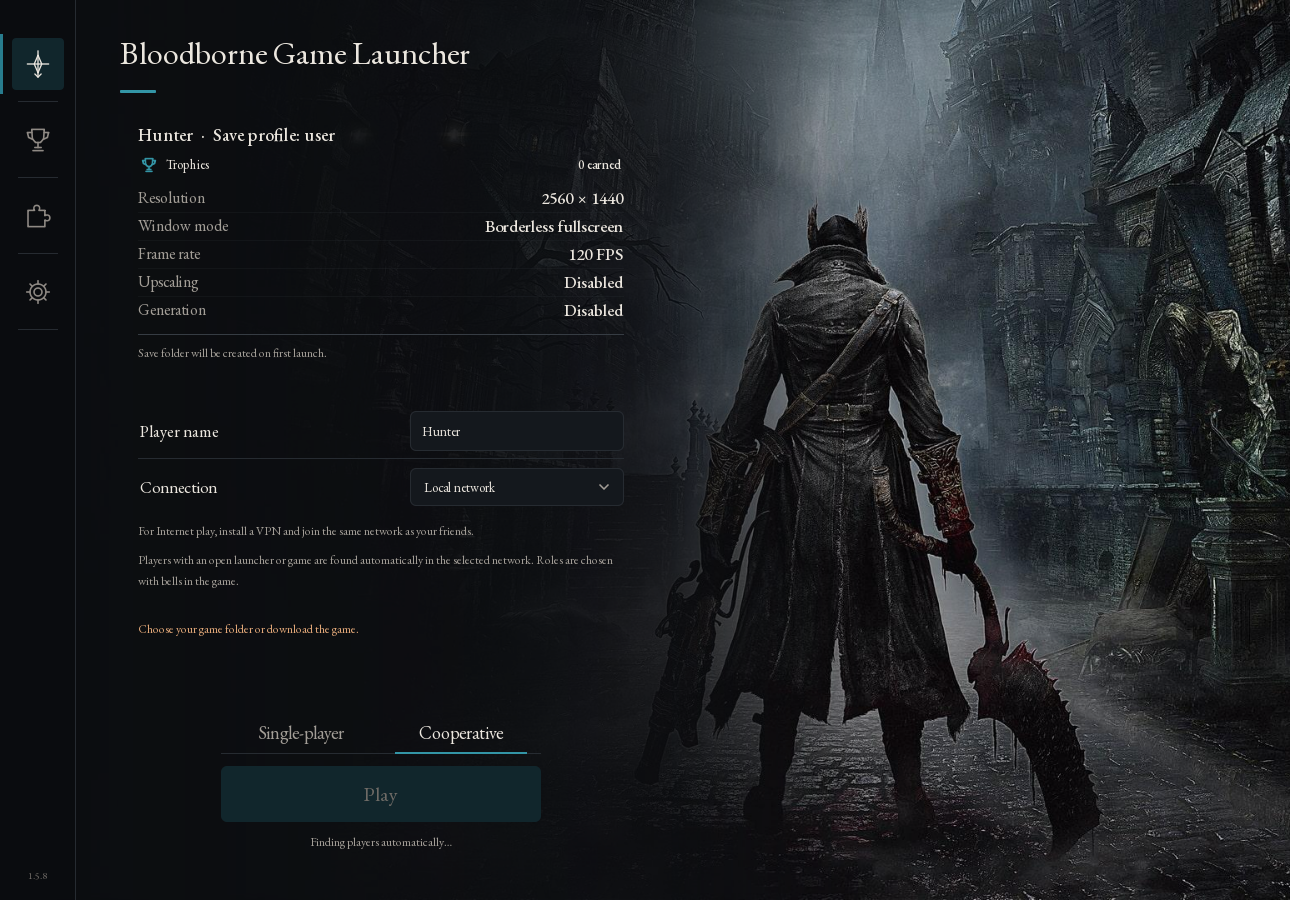
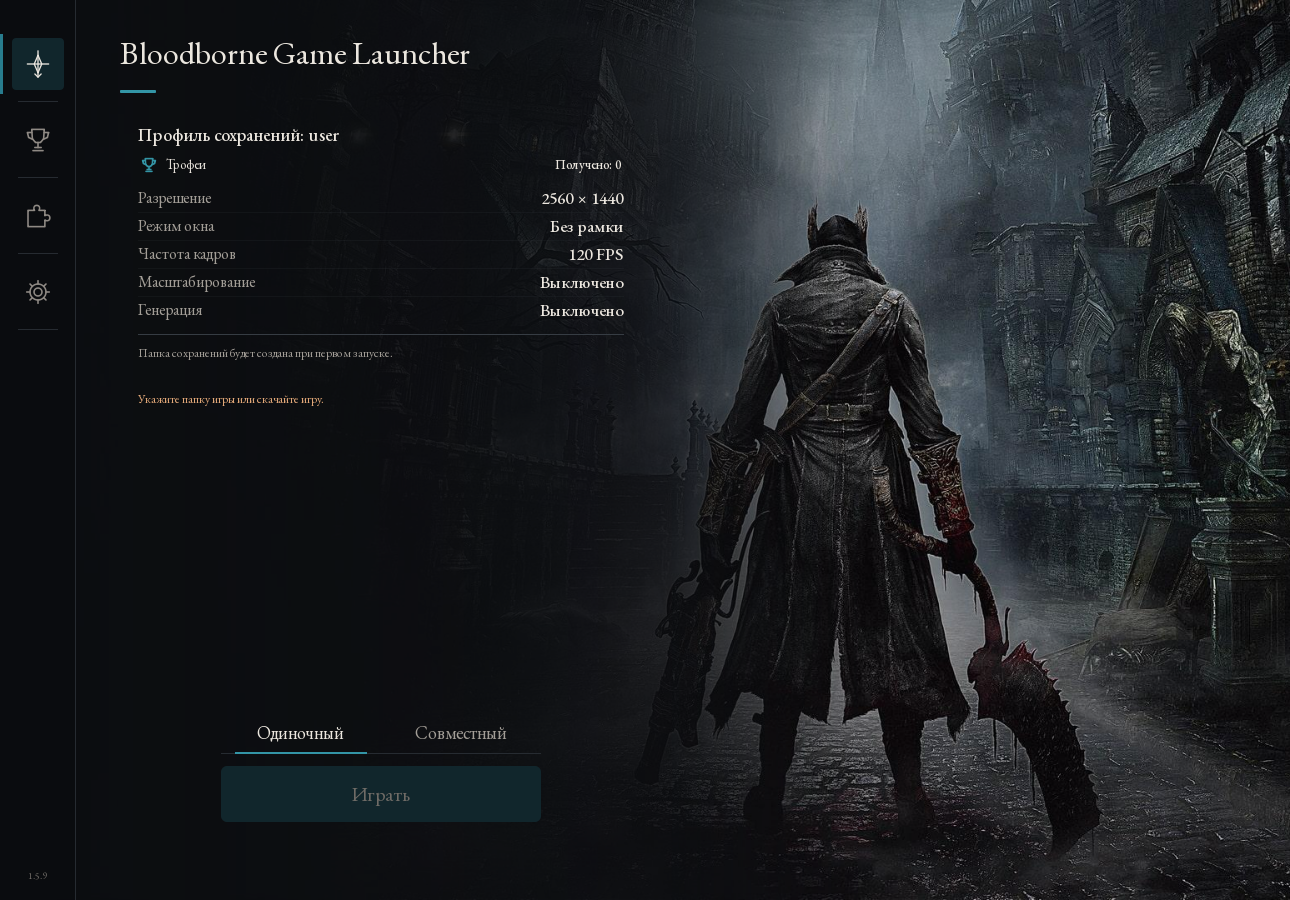
release: prepare BBGL 1.5.9

diff --git a/launcher/bbport_launcher_win.py b/launcher/bbport_launcher_win.py
@@ -44,8 +44,8 @@ PATCH_VERSION = '01.09'
 MAX_LOG_LINES = 6000
 NO_WINDOW = getattr(subprocess, 'CREATE_NO_WINDOW', 0)
 # This fork's build; the release tag includes this version.
-VERSION = '1.5.8'
-CURRENT_RELEASE_TAG = 'v1.5.8'
+VERSION = '1.5.9'
+CURRENT_RELEASE_TAG = 'v1.5.9'
 HERO_ART = PORT_DIR / 'launcher' / 'art' / 'hero.png'
 STRIP_ART = PORT_DIR / 'launcher' / 'art' / 'strip.png'
 RELEASES_API = 'https://api.github.com/repos/mark3317/bbgl/releases/latest'

diff --git a/BUILDING.md b/BUILDING.md
@@ -12,11 +12,11 @@ bash packaging/windows/build-coop-package.sh
 
 The command builds BBSC-GL from `mods-src/BBSC`, builds the port, freezes the launcher and assembles the P2P runtime. FSR-Vulkan is pinned from the [BBGL dependency fork](https://github.com/mark3317/UniversalScalers-Vulkan), which includes the frame-resource lifetime fix used by this release. The current co-op path needs no separate game server, shadNet account or invitation. Historical server build scripts are not part of this release path.
 
-Staging is recreated at `out/stage/Bloodborne Game Launcher`. The release files are `dist/bbgl-1.5.8-windows-x64.zip` and its `.zip.sha256`. Keep the staging path separate from installed launchers and keep player settings, saves, accounts, logs and game files outside the package.
+Staging is recreated at `out/stage/Bloodborne Game Launcher`. The release files are `dist/bbgl-1.5.9-windows-x64.zip` and its `.zip.sha256`. Keep the staging path separate from installed launchers and keep player settings, saves, accounts, logs and game files outside the package.
 
 Button prompts and the optional Diamond Sword use binary deltas from `bundled-mods`. Packaging uses prepared button prompts from `out/vendor/ready-prompts`. If the cache is empty, set `BB_PROMPT_GAME_DIR` to your own original 1.09 game folder to prepare the prompts. Diamond Sword and all cheats are disabled by default. Detailed logging, research, profiling and Vulkan validation are opt-in. See the [logging policy](docs/LOGGING.md).
 
-`SKIP_BUILD=1` skips only the port for verified launcher-only iterations. BBSC is still rebuilt. A release candidate uses the full command without `BB_FAST_DEPLOY=1`; the fast option is for ordinary local deployment and skips release verification.
+`SKIP_BUILD=1` skips only the port for verified builds that reuse unchanged port binaries. BBSC is still rebuilt. A release candidate uses the full command without `BB_FAST_DEPLOY=1`; the fast option is for ordinary local deployment and skips release verification.
 
 `package.sh` verifies the final staging payload once. The wrapper creates the versioned archive and SHA-256. Check ZIP structure, CRC, and file names and contents against verified staging. Extract the matching BBSC-GL ZIP from this validated launcher ZIP using its bundled DLL, Party, metadata and licences. Smoke-test the frozen launcher from the extracted ZIP in separate English and Russian temporary profiles. Follow [targeted testing rules](docs/TESTING.md); no full test sweep is required just for packaging. Record build, deployment and gameplay validation separately, and disclose untested gameplay changes.
 
@@ -24,4 +24,4 @@ Commit the intended BBSC changes before updating the parent gitlink. `coop/SOURC
 
 When building a Git for Windows checkout from MSYS2, use the same line-ending configuration in both environments. If Git for Windows reports a clean checkout but MSYS2 reports only CRLF differences in BBSC dependencies, run the build with `GIT_CONFIG_COUNT=1 GIT_CONFIG_KEY_0=core.autocrlf GIT_CONFIG_VALUE_0=true` in the MSYS2 command environment. Verify that both Git clients report a clean BBSC checkout and that `source_dirty` is false in the final ZIP.
 
-`develop` holds ongoing work. `main` holds release source. BBGL 1.5.8 uses update tag `v1.5.8` and bundles BBSC-GL 1.5.8.
+`develop` holds ongoing work. `main` holds release source. BBGL 1.5.9 uses update tag `v1.5.9` and bundles BBSC-GL 1.5.9.

diff --git a/README.md b/README.md
@@ -12,7 +12,7 @@ BBGL brings installation, configuration and launching into one interface. Guided
 
 **The entire main story is playable in co-op, from the beginning through the finale, with a working transition to NG+. A complete playthrough and the move into the next cycle have been tested in-game and confirmed by the user. Chalice dungeons work in co-op, including randomly generated Root Chalices.**
 
-**BBGL 1.5.8** includes BBSC-GL 1.5.8. After a full party wipe, BBSC-GL resets temporary encounter flags for story, DLC and Chalice Dungeon bosses. Chalice resets use the active ritual and arena. Late snapshots preserve the new attempt’s local flags. Targeted tests passed. In-game verification of retries is pending. [Release notes](docs/release-1.5.8.md).
+**BBGL 1.5.9** includes BBSC-GL 1.5.9. The mod waits for known party members during boss deaths, rechecks readiness when presence or the roster changes, and rejects death messages from earlier visits. Targeted tests passed. In-game verification is pending. [Release notes](docs/release-1.5.9.md).
 
 ## Party and peer-to-peer networking
 
@@ -56,7 +56,7 @@ The interface supports English and Russian. The screenshots show the cooperative
 
 ## Start playing
 
-1. Download `bbgl-1.5.8-windows-x64.zip` from Releases and extract it. Open the **Bloodborne Game Launcher** folder.
+1. Download `bbgl-1.5.9-windows-x64.zip` from Releases and extract it. Open the **Bloodborne Game Launcher** folder.
 2. Run **Bloodborne.exe**. Use the built-in download button in setup or select an existing Bloodborne **CUSA03173, update 1.09** folder. Game files are not included in the launcher archive.
 3. For co-op, connect every PC to the same VPN or LAN. Choose **Local network**, **Tailscale** or **Radmin**; installed VPNs appear in the list and missing ones have installation buttons. Check connectivity, then start the game. Players can join later. No server or invite code is required.
 4. Use the in-game co-op bells to gather your party. Keep everyone on the same BBGL release.

diff --git a/docs/release-1.5.9.md b/docs/release-1.5.9.md
@@ -1,0 +1,17 @@
+# BBGL 1.5.9
+
+## Русский
+
+- Включён BBSC-GL 1.5.9 с исправлениями согласования общей гибели на боссе. Погибшие ждут статусы известных участников, а смена присутствия или состава запускает повторную проверку.
+- Сообщения о смерти из предыдущего визита больше не подтверждают готовность к загрузке в текущем визите.
+
+Распакуйте Windows ZIP и запустите `Bloodborne.exe`. Для согласованного возрождения обновите всех участников до 1.5.9. Четыре сценария прошли на стенде. Проверка в игре остаётся открытой.
+
+## English
+
+- Includes BBSC-GL 1.5.9 with fixes for coordinated boss-death recovery. Dead players wait for known teammates, and changes in presence or party size trigger a readiness check.
+- A death message from an earlier visit cannot mark a player ready in the current visit.
+
+Extract the Windows ZIP and run `Bloodborne.exe`. Update everyone to 1.5.9 for coordinated recovery. All four regression cases passed. In-game verification is pending.
+
+[BBSC-GL 1.5.9](https://github.com/mark3317/bbsc-gl/releases/tag/v1.5.9)

diff --git a/CHANGELOG.md b/CHANGELOG.md
@@ -1,5 +1,10 @@
 # BBGL changelog
 
+## 1.5.9
+
+Включает BBSC-GL 1.5.9 с исправлениями ожидания группы, учёта загрузки и смены состава после смерти на боссе. Стендовые проверки прошли. Игровая проверка на двух и трёх клиентах открыта.
+[Описание выпуска](docs/release-1.5.9.md).
+
 ## 1.5.8
 
 После гибели всей группы сбрасываются временные флаги боя у боссов сюжета, DLC и чаш. В чашах сброс учитывает текущий ритуал и арену. Запоздавший снимок не перезаписывает флаги новой попытки. Стендовые проверки прошли. Проверка повторной попытки в игре открыта.

diff --git a/docs/ROADMAP.md b/docs/ROADMAP.md
@@ -1,3 +1,8 @@
+## BBGL 1.5.9
+
+Включает BBSC-GL 1.5.9 с исправлениями ожидания группы, учёта загрузки и смены состава после смерти на боссе. Стендовые проверки прошли. Игровая проверка на двух и трёх клиентах открыта.
+[Описание выпуска](release-1.5.9.md).
+
 ## BBGL 1.5.8
 
 После гибели всей группы сбрасываются временные флаги боя у боссов сюжета, DLC и чаш. В чашах сброс учитывает текущий ритуал и арену. Запоздавший снимок не перезаписывает флаги новой попытки. Стендовые проверки прошли. Проверка повторной попытки в игре открыта.

diff --git a/docs/screenshots/README.md b/docs/screenshots/README.md
@@ -1,6 +1,6 @@
-# Скриншоты BBGL 1.5.8
+# Скриншоты BBGL 1.5.9
 
-Сняты 10.11.2026 из текущего QML-интерфейса. Для обновления:
+Сняты 11.11.2026 из текущего QML-интерфейса. Для обновления:
 
 ```powershell
 out/qt-venv/Scripts/python.exe tools/capture_release_screenshots.py
